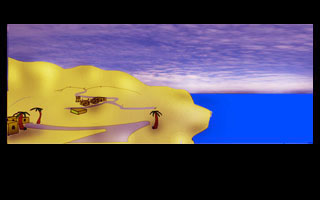
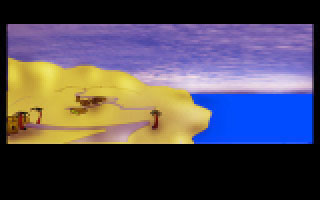
select unit mouse

diff --git a/src/globalDune.js b/src/globalDune.js
@@ -15,7 +15,9 @@ import { ViewArmUnit } from "./olddune/view/ViewArmUnit.js";
 import { View } from "./olddune/view/View.js";
 import { ModelParamGame } from "./olddune/model/ModelParamGame";
 import { ViewTacticModel } from "./olddune/view/ViewTacticModel";
-import { ViewImage } from './olddune/view/ViewImage'
+import { ViewImage } from './olddune/view/ViewImage';
+import {ControllerButton} from './olddune/controller/ControllerButton';
+
 
 document.addEventListener('DOMContentLoaded', function () {
 
@@ -62,22 +64,7 @@ var _battleTerra = {
 	GridFleetVictimId: 0
 };
 new CreateGridScenario().AddCountry();
-/*
-window._tileTypes = {
-0:{colour:"#685b48", sprite:[{x:0,y:0,w:16,h:16}]},
-1:{colour:"#5aa457", sprite:[{x:16,y:0,w:16,h:16}]},
-2:{colour:"#e8bd7a", sprite:[{x:32,y:0,w:16,h:16}]},
-3:{colour:"#286625", sprite:[{x:48,y:0,w:16,h:16}]},
-4:{colour:"#678fd9", sprite:[{x:64,y:0,w:16,w:16,h:16}]},
-5:{colour:"#678fd9", sprite:[{x:256,y:48,w:16,w:16,h:16}]},
-6:{colour:"#678fd9", sprite:[{x:16*39,y:16*2,w:16,w:16,h:16}]},
-7:{colour:"#678fd9", sprite:[{x:16*35,y:16*4,w:16,w:16,h:16}]},
-8:{colour:"#678fd9", sprite:[{x:16*40,y:16*2,w:16,w:16,h:16}]},
-9:{colour:"#678fd9", sprite:[{x:16*43,y:16*9,w:16,w:16,h:16}]},
-10:{colour:"move", sprite:[{x:16*42,y:16*9,w:16,w:16,h:16}]},
-11:{colour:"attack", sprite:[{x:16*41,y:16*9,w:16,w:16,h:16}]}
-};
-*/
+
 var _unitTypes = {
 	0: { colour: "#685b48", sprite: [{ x: 0, y: 0, w: 32, h: 32 }] },
 	1: { colour: "#685b48", sprite: [{ x: 32, y: 0, w: 32, h: 32 }] },
@@ -129,7 +116,7 @@ function FillGrid() {
 window._ViewImage = new ViewImage();
 
 let unitIconSet;
-//let _screenList;
+
 let infanteryUnitAnim;
 let tankUnitScreen;
 let explodeUnitAnim;
@@ -205,8 +192,6 @@ window.onload = function () {
 		let mouseX = e.offsetX;
 		let mouseY = e.offsetY;
 
-
-
 		for (var i = 0; i < _tileBox_ar.length; i++) {
 			if (_tileBox_ar[i].X < mouseX && _tileBox_ar[i].X + _tileBox_ar[i].Width > mouseX) {
 
@@ -275,6 +260,26 @@ window.onload = function () {
 								console.log("  ничего не на  ",island.Name);
 								//this.ClickTownCard();
 								window.ClickTownCard(island.Name,island.Id);
+							}
+						}
+						// select unit Player
+						for (let z = 0; z < window._battlePlanetModel._mapWorldModel._prototypeHeroDemo.GetHeroFleet().length; z++) {
+							if (window._battlePlanetModel._mapWorldModel._prototypeHeroDemo.GetHeroFleet()[z].SpotX == _tileBox_ar[i].SpotX &&
+							window._battlePlanetModel._mapWorldModel._prototypeHeroDemo.GetHeroFleet()[z].SpotY == _tileBox_ar[i].SpotY
+							) {
+								let gridFleetMouseClick = window._battlePlanetModel._mapWorldModel._prototypeHeroDemo.GetHeroFleet()[z];
+								if(window._battlePlanetModel.FlagIdHero===gridFleetMouseClick.FlagId){
+									console.log("0 flag  = ",gridFleetMouseClick.GetId())
+									console.log( window._battlePlanetModel.FlagIdHero,"  isl = " ,gridFleetMouseClick.FlagId	)
+								
+									let modelEvent = new ButtonEvent();
+									modelEvent.IdHero = gridFleetMouseClick.GetId();
+
+									new ControllerButton().EventCall(new ControllerConstant().SelectHeroWithId, new ControllerConstant().SelectHeroWithId,modelEvent);
+									_buttonEvent_ar = new View().RefreshPathButtonEvent();
+								}
+								
+								
 							}
 						}
 					}

diff --git a/src/olddune/view/View.js b/src/olddune/view/View.js
@@ -337,6 +337,13 @@ let gridMapExistence =new AI_Behavior_Existence().PreparationMap(window.Grid_ar,
 			ctx.drawImage(_tileset, unitTile.sprite[0].x, unitTile.sprite[0].y, unitTile.sprite[0].w, unitTile.sprite[0].h,
 				island.SpotX*window.tileW-(window.tileW/2)+window.tileW, island.SpotX*window.tileH-(window.tileH/2)+window.tileH, window.tileW, window.tileH);
 
+
+			let indexImage = this.GetIndexFlagImage(island.GetFlagId())
+			
+			this.drawFlagUnit(ctx,window._ViewImage._screenList,
+				island.SpotX*window.tileW-(window.tileW/2)+window.tileW,
+				island.SpotX*window.tileH-(window.tileH/2)+window.tileH,
+				window.tileW,window.tileH,indexImage)
 			i++;
 		}
 
@@ -383,7 +390,7 @@ let gridMapExistence =new AI_Behavior_Existence().PreparationMap(window.Grid_ar,
 				//let item = window._battlePlanetModel.GetDispositionCountryWithId(window._mapWorldModel._prototypeHeroDemo.GetHeroFleet()[y].GetFlagId())
 				//let indexImage = item.FlagImage;
 				let indexImage = this.GetIndexFlagImage(window._battlePlanetModel._mapWorldModel._prototypeHeroDemo.GetHeroFleet()[y].GetFlagId())
-//console.log("0000 flag  ",indexImage)
+
 				
 				
 				
@@ -400,6 +407,7 @@ let gridMapExistence =new AI_Behavior_Existence().PreparationMap(window.Grid_ar,
 	}
 
 	drawFlagUnit(ctx,screenList,PositionX,PositionY,TileW,TileH,indexImage){
+		//console.log(" flag     x = ",PositionX,"  y = ",PositionY,"   indexImage = ",indexImage)
 		ctx.drawImage(screenList[3], 400*indexImage, 0, 400, 433,
 			PositionX,
 			PositionY,
@@ -418,7 +426,7 @@ let gridMapExistence =new AI_Behavior_Existence().PreparationMap(window.Grid_ar,
 		//let indexImage = 0;
 
 		let indexImage = this.GetIndexFlagImage(window._battlePlanetModel._mapWorldModel._prototypeHeroDemo.GetHeroFleet()[indexNameFleet].GetFlagId());
-		//console.log("0011 flag  ",indexImage)
+		
 		//console.log("0012 flag  ",window._mapWorldModel._prototypeHeroDemo.GetHeroFleet()[indexNameFleet].GetFlagId())
 
 		this.drawFlagUnit(ctx,screenList,

diff --git a/src/pages/Homepage.js b/src/pages/Homepage.js
@@ -67,9 +67,9 @@ const HomePage =()=>{
             <canvas id="game" width="800" height="600"></canvas>
             <p>{name} is {money}</p>
             <Button onClick={handleClick.bind(this)}>turn</Button>
-            <Button onClick={(e)=>{handleClickkol("kol",e)}}>test</Button>
-            <Button onClick={(e) =>{nameClick("k",e)} }>Left</Button>
-            <Button onClick={(e) =>{moneyClick(e)}  }>Right</Button>
+            <Button onClick={(e)=>{handleClickkol("kol",e)}}>test turn</Button>
+            <Button onClick={(e) =>{nameClick("k",e)} }>-Left</Button>
+            <Button onClick={(e) =>{moneyClick(e)}  }>Right-</Button>
             <Button onClick={(event) =>{ClickTownCard(event,0)}  }>push</Button>
             <TownModal show={brandVisible} 
             onHide={()=>setBrandVisible(false)} 

diff --git a/src/olddune/controller/ControllerButton.js b/src/olddune/controller/ControllerButton.js
@@ -36,6 +36,14 @@ export class ControllerButton{
 			window._battlePlanetModel._mapWorldModel.SelectHeroButton(buttonEvent);
 			return;
 		}
+		if (ConstantName === new ControllerConstant().SelectHeroWithId)
+		{
+			console.log("022 D  Url   indexIm  ",ConstantName )
+			window._battlePlanetModel._mapWorldModel.SelectHeroWithId(EventButton);
+			return;
+		}
+
+
 	};
 	SetCommandPerform = function(CommandId,commandStrategy)
 	{

diff --git a/src/modalWindow/TownModal.js b/src/modalWindow/TownModal.js
@@ -4,7 +4,7 @@ import {Container, Card, Form, Button, Row, Spinner, Image} from 'react-bootstra
 
 const TownModal =({show,onHide,UrlImage,name,GoToTown,IdIsland}) =>{
 
-    console.log("0223 DD  UrlImage ",UrlImage," " )
+    
     console.log("0222 "+IdIsland+"  name "+name )
 
     return (

diff --git a/src/olddune/mapWorld/MapWorldModel.js b/src/olddune/mapWorld/MapWorldModel.js
@@ -457,6 +457,9 @@ export class MapWorldModel {
 			
 		//}
 	};
+	SelectHeroWithId = function(buttonEvent){
+		window._battlePlanetModel.SetSelectHeroId(buttonEvent.IdHero)
+	}
 	GetHeroSelect = function(hero)
 	{
 		return this.GetHeroSelectWithId (hero.GetId());

diff --git a/src/pages/TownPage.js b/src/pages/TownPage.js
@@ -9,7 +9,7 @@ const TownPage =()=>{
     
 const island = island_ar.filter(isl => isl.Id == id)[0];
 console.log(island_ar,"town id = ",island)
-console.log( "  island= ",island.Image )
+
 const urlImage = island.Image ;
     return (
         <>

diff --git a/src/olddune/controller/ControllerConstant.js b/src/olddune/controller/ControllerConstant.js
@@ -3,4 +3,5 @@ export class ControllerConstant{
 	AttackHero = "AttackHero";
 	SelectHeroLeft = "SelectHeroLeft";
 	SelectHeroRight = "SelectHeroRight";
+	SelectHeroWithId ="SelectHeroWithId";
 }
